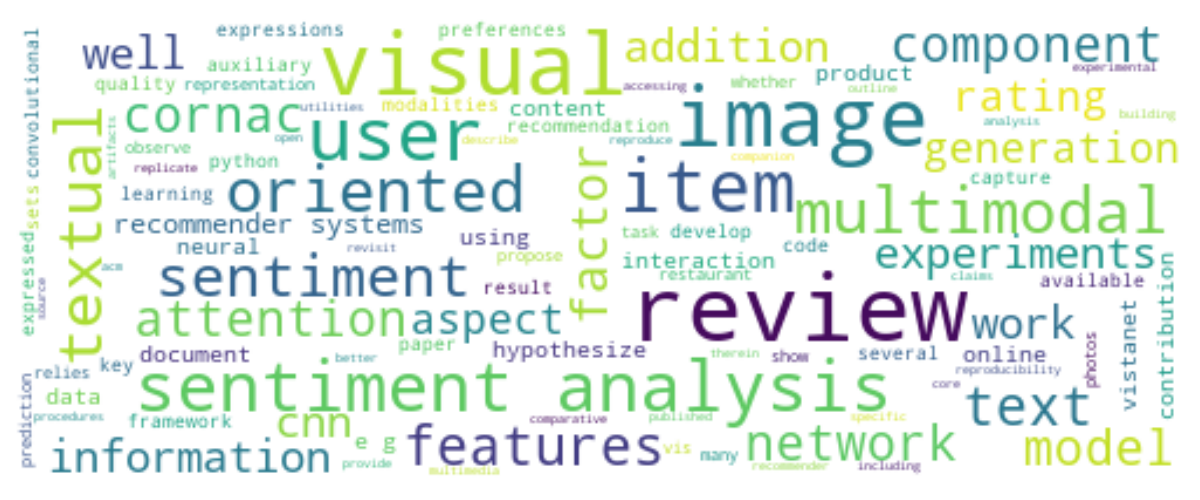
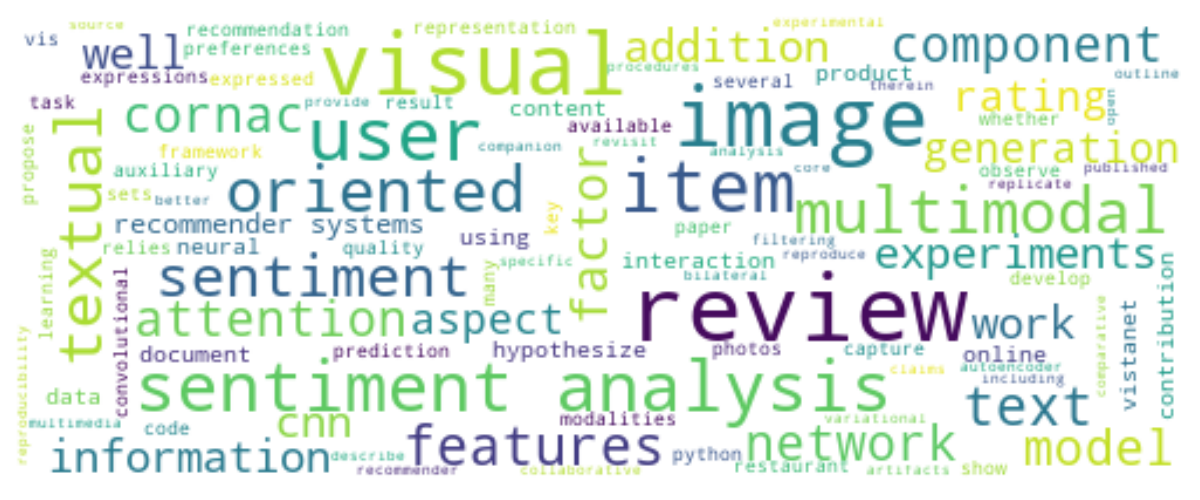
Update wordcloud

diff --git a/index.html b/index.html
@@ -68,6 +68,7 @@
                         <h2>Quoc-Tuan Truong</h2>
 
                         <div style="padding: 20px 20px 0px 0px;border-top:1px solid #eee;border-right:1px solid #eee;">
+                            <img src="./assets/wc.png" width="50%" align="right" style="margin-left: 20px;" />
                             <p style="margin-bottom: 10px;">
                                 I am a PhD student at <a href="https://www.smu.edu.sg/"
                                     onclick="trackEvent('https://www.smu.edu.sg/', 'view', 'info', 'SMU');">SMU</a>
@@ -84,8 +85,6 @@
                                     onclick="trackEvent('https://uet.vnu.edu.vn/~hieupx', 'view', 'info', 'uet.vnu.edu.vn/~hieupx');">Prof.
                                     Xuan-Hieu Phan</a>.
                             </p>
-
-                            <img src="./assets/wc.png" width="55%" align="right" style="margin-left: 20px;"/>
                             <p style="margin-bottom: 0px;">I'm interested in how machines can learn useful
                                 representations and its applications of learning problems to the real world. My PhD
                                 thesis spans multimodal learning, preference modeling and recommender systems.

diff --git a/wc/wc.py b/wc/wc.py
@@ -10,6 +10,9 @@ from wordcloud import WordCloud, STOPWORDS, ImageColorGenerator
 
 text = " ".join(l.strip() for l in open("abstracts.txt", "r").readlines()).lower()
 stopwords = set(STOPWORDS)
+stopwords.add("e")
+stopwords.add("g")
+stopwords.add("acm")
 
 wc = WordCloud(
     width=500,
